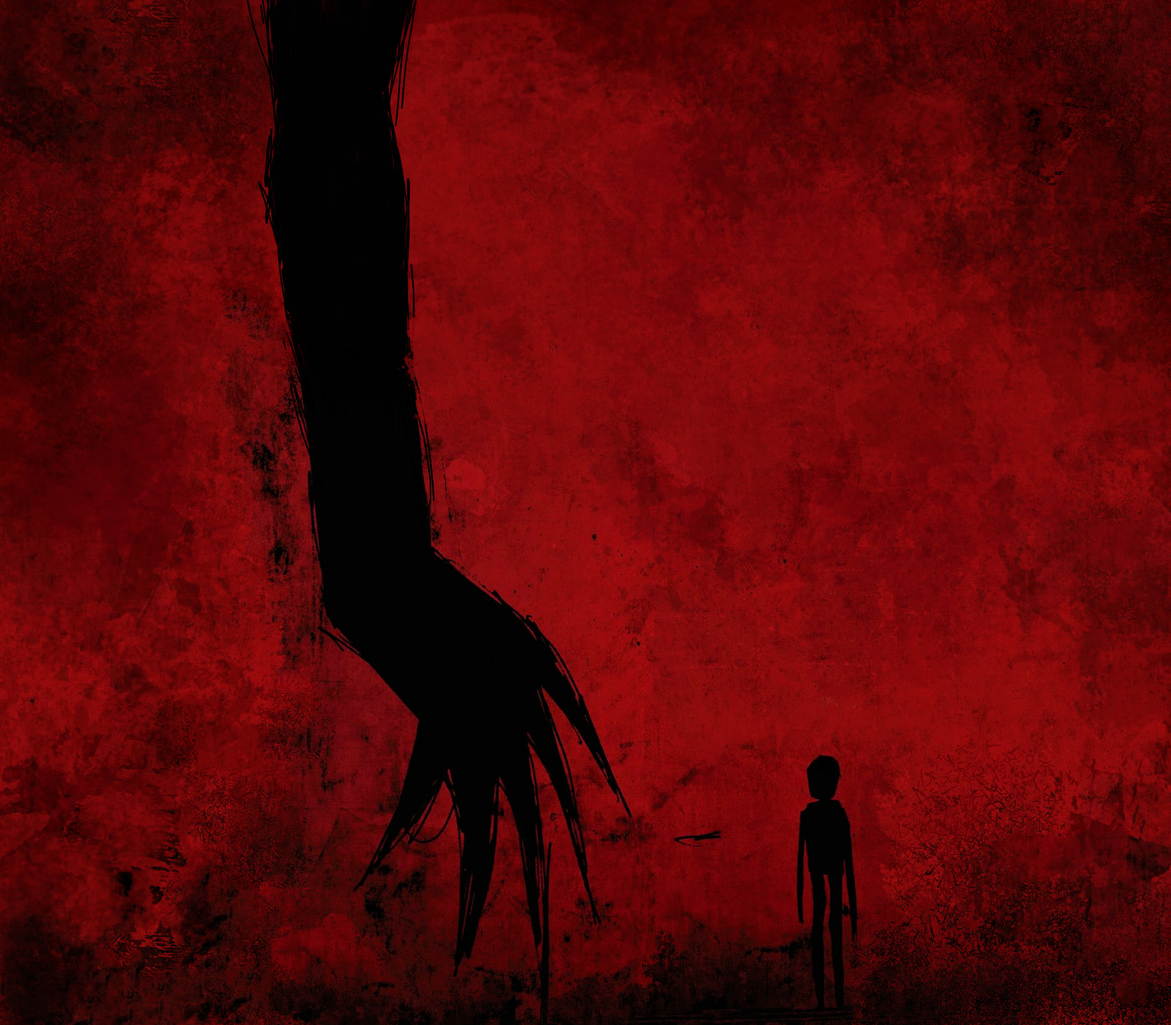
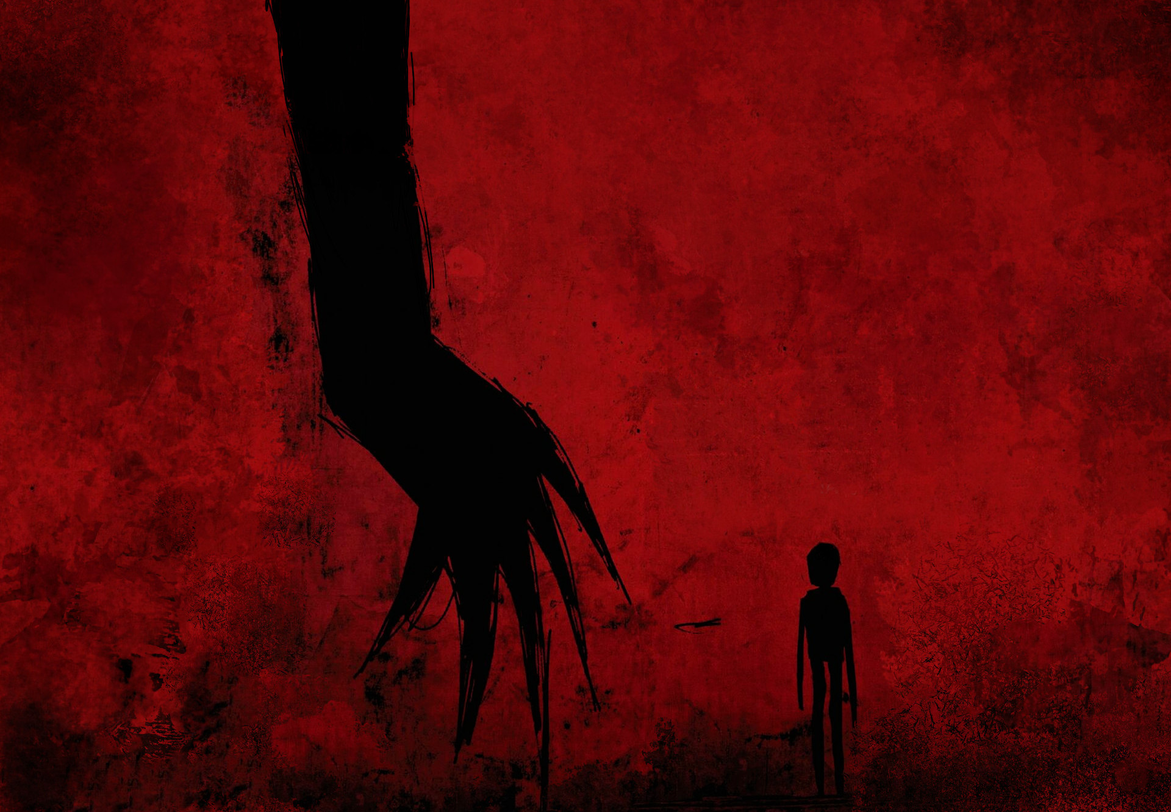
more changes,,

diff --git a/css/stylesheet.css b/css/stylesheet.css
@@ -1,7 +1,7 @@
 
 body {
     font-family: 'Courier New', Courier, monospace;
-    background-image: url(test1.jpg);
+    background-image: url(background.jpg);
     background-repeat: no-repeat;
     background-size: fill;
     background-attachment: fixed;
